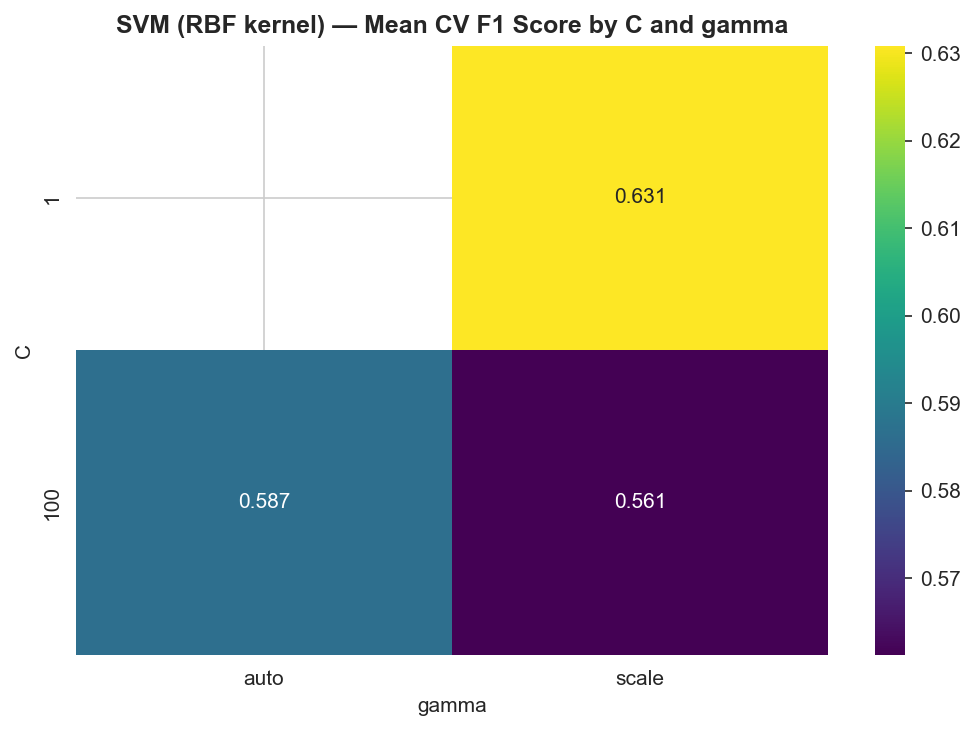
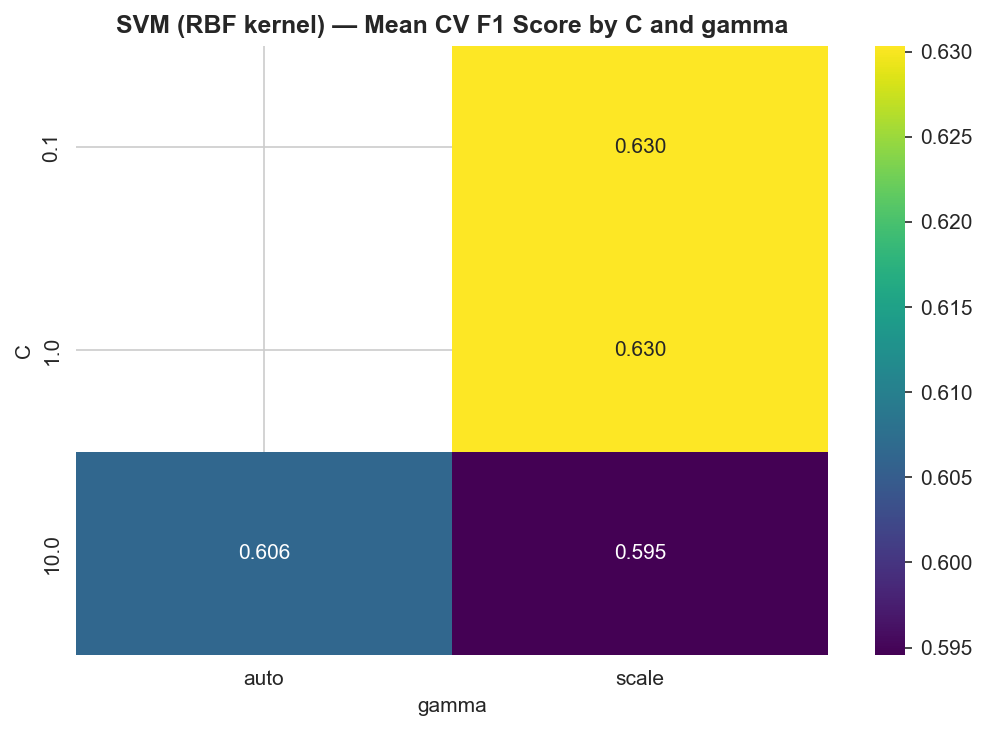
implement SVM training pipeline and automated evaluation reporting with hyperparameter visualization

diff --git a/models/svm_model.py b/models/svm_model.py
@@ -82,7 +82,7 @@ from sklearn.model_selection import (
 from sklearn.svm import SVC
 
 from src.data_preprocessing import build_preprocessor, preprocess_data
-from src.utils import evaluate_model, print_metrics, save_model
+from src.utils import evaluate_model, print_metrics, save_model, generate_shap_explanation
 from sklearn.calibration import CalibratedClassifierCV
 from sklearn.svm import SVC
 from imblearn.pipeline import Pipeline
@@ -140,7 +140,7 @@ def train_svm(
     use_smote: bool = True,
     param_grid: dict | None = None,
     scoring: str = "f1",
-    cv: int = 3,
+    cv: int = 5,
     search: str = "random",
     n_iter: int = 8,
     random_state: int = 42,
